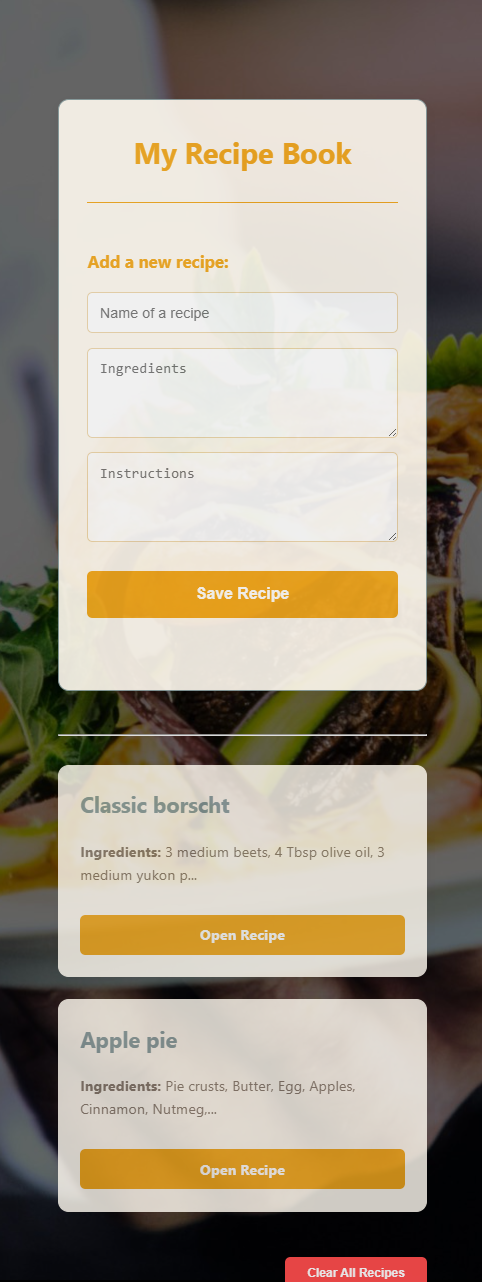
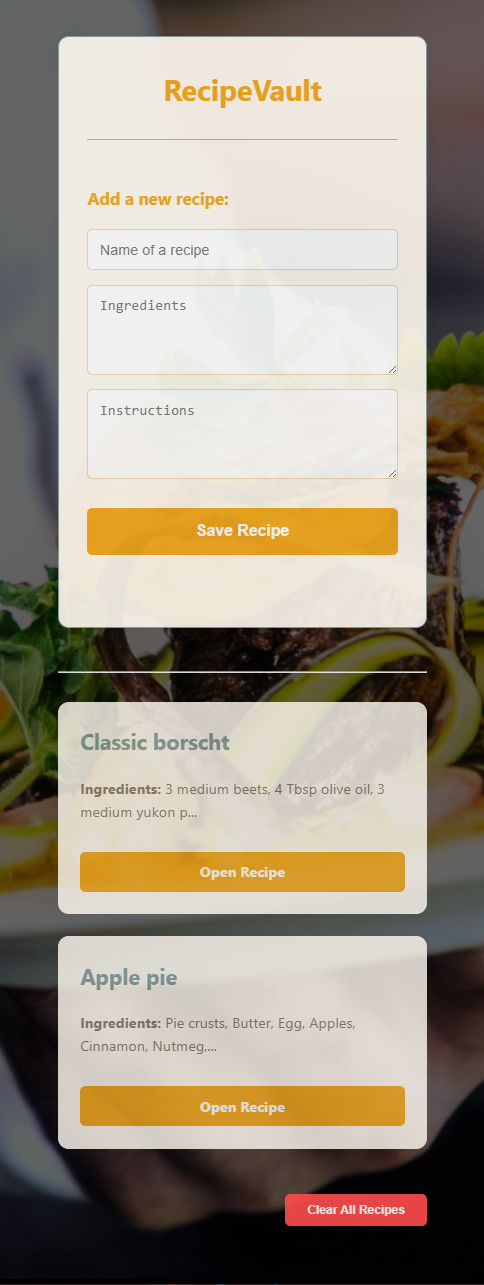
updated README

diff --git a/app.js b/app.js
@@ -50,7 +50,7 @@ async function main() {
   app.get("/", (req, res) => {
     res.render("index.ejs", {
       recipes: loadRecipes(),
-      title: "My Recipe Book",
+      title: "RecipeVault",
     });
   });
 

diff --git a/README.MD b/README.MD
@@ -1,6 +1,6 @@
-## My Recipe Book
+## RecipeVault
 
-My Recipe Book is a full-stack digital culinary archive designed to help users document, organize, and preserve their favorite recipes. Built with Node.js and Express, the application focuses on a clean, user-friendly interface that mimics a warm, physical cookbook.
+RecipeVault is a full-stack digital culinary archive designed to help users document, organize, and preserve their favorite recipes. Built with Node.js and Express, the application focuses on a clean, user-friendly interface that mimics a warm, physical cookbook.
 
 ---
 
@@ -28,6 +28,9 @@ My Recipe Book is a full-stack digital culinary archive designed to help users d
 
 - Delete Confirmation Modal
   ![Recipe Delete Modal](screenshots/recipe-delete-modal.png)
+
+- Delete All Modal
+  ![Delete All Modal](screenshots/delete-all-modal.png)
 
 - Error Handling
 ![404 Error Page](screenshots/error-404.png)
